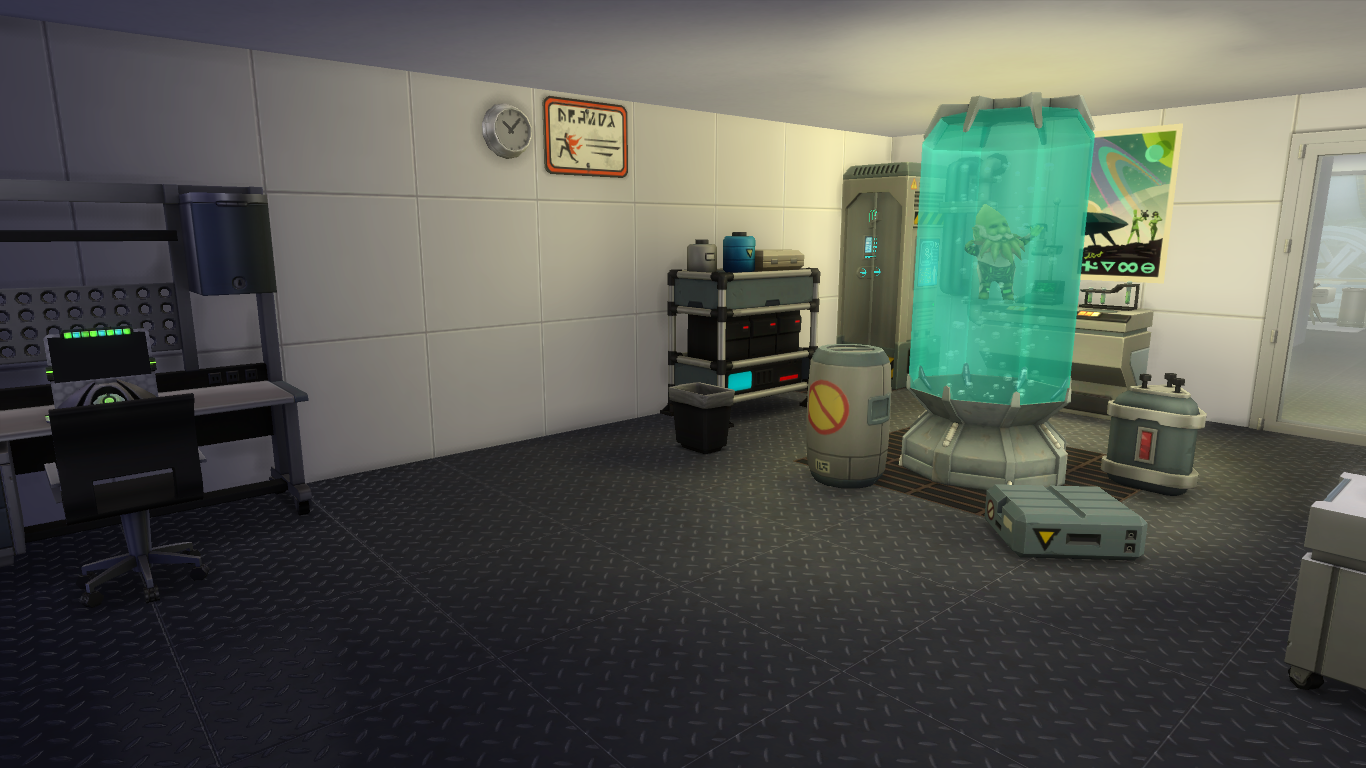
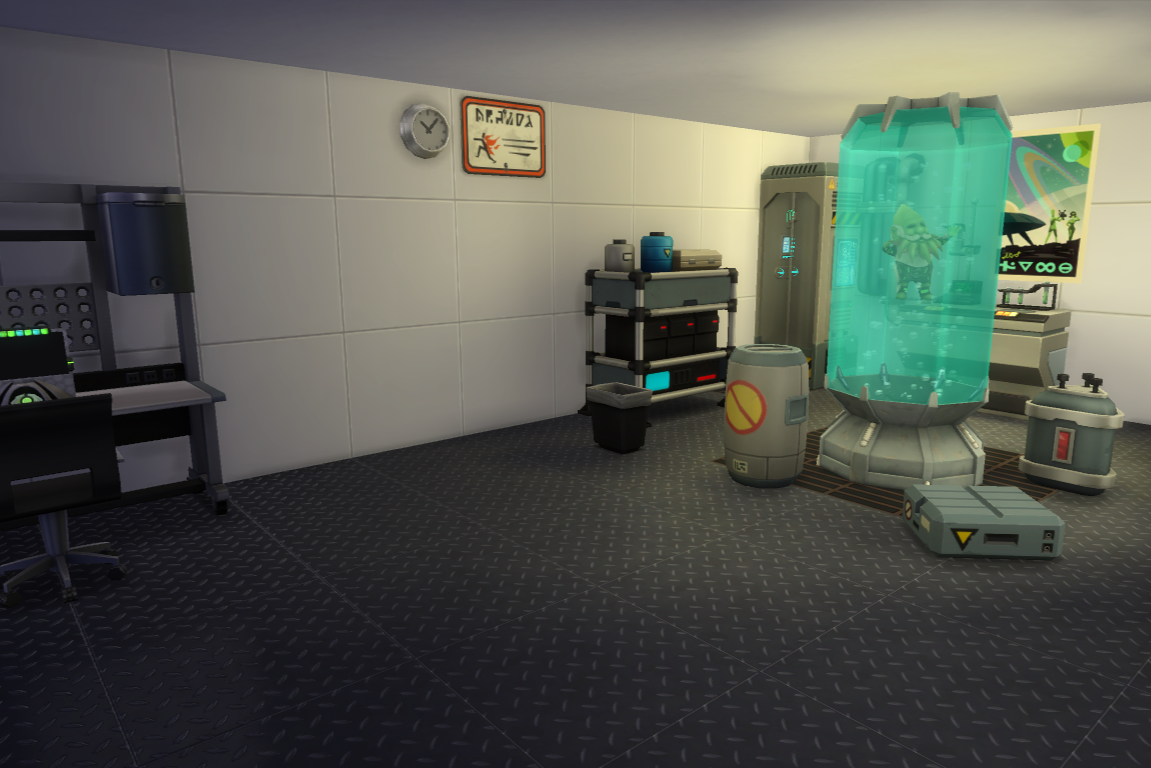
fbnrbljre njkb rk b      bs systems

diff --git a/src/java/principal/Capitulos.java b/src/java/principal/Capitulos.java
@@ -23,38 +23,38 @@ public class Capitulos {
                 //caminho A:
                 switch ((int) numParagrafo) {
                     case 97:
-                        paragrafo = "background('imagens/cenarios/02.png')Seguindo um corredor do Centro de Pesquisa, os especialistas se deparam com várias salas. A cada novo espaço o medo e a curiosidade duelavam no domínio sobre suas ações. Por fim, resolveram desbravar o local para buscarem uma ajuda. Eles seguiam juntos pelo corredor, em busca de manter alguma proteção sobre o grupo, em uma prevenção a qualquer coisa que pudesse ter acontecido naquele lugar.";
+                        paragrafo = "background('imagens/cenarios/05.png')Seguindo um corredor do Centro de Pesquisa, os especialistas se deparam com várias salas. A cada novo espaço o medo e a curiosidade duelavam no domínio sobre suas ações. Por fim, resolveram desbravar o local para buscarem uma ajuda. Eles seguiam juntos pelo corredor, em busca de manter alguma proteção sobre o grupo, em uma prevenção a qualquer coisa que pudesse ter acontecido naquele lugar.";
                         break;
                     case 98:
-                        paragrafo = "background('imagens/cenarios/02.png')Após algum tempo passando por várias salas de pesquisa bagunçadas, finalmente o grupo se depara com alguns computadores. Um sentimento de esperança crescia sob o peito de alguns, outros tentaram suprimir até que conseguissem ajuda para sair dali. Logo Jack sai na frente e começa a mexer em um dos computadores que ainda estava inteiro.";
+                        paragrafo = "background('imagens/cenarios/04.png')Após algum tempo passando por várias salas de pesquisa bagunçadas, finalmente o grupo se depara com alguns computadores. Um sentimento de esperança crescia sob o peito de alguns, outros tentaram suprimir até que conseguissem ajuda para sair dali. Logo Jack sai na frente e começa a mexer em um dos computadores que ainda estava inteiro.";
                         break;
                     case 99:
-                        paragrafo = "background('imagens/cenarios/02.png')Após alguns segundos teclando e olhando fixamente para a tela, o Professor solta um suspiro pesado e se volta aos outros.\n"
+                        paragrafo = "background('imagens/cenarios/04.png')Após alguns segundos teclando e olhando fixamente para a tela, o Professor solta um suspiro pesado e se volta aos outros.\n"
                                 + "-Sem acesso a Internet ou qualquer meio externo."
                                 + "Os cinco especialistas olham em desespero para Jack. Como sairiam dali? -E isso não é tudo. Deixaram um áudio aberto. Talvez possa ser algo importante…-Tenta uma falsa animação na voz.\n"
                                 + "-Vamos logo então!- Exasperada Abby solta.";
                         break;
                     case 100:
-                        paragrafo = "background('imagens/cenarios/02.png')Quando todos se põe ao redor do computador em um círculo, Jack libera a gravação aumentando o volume do áudio. \"Alerta! Alerta! (Sons agitados seguem o barulho constante de uma sirene. Algumas vozes conversam mas não é possível discernir o que falam.) -Não detonar as pontes de acesso! Não podemos danificar os SH! Um homem gritava com grande agitação na voz.";
+                        paragrafo = "background('imagens/cenarios/04.png')Quando todos se põe ao redor do computador em um círculo, Jack libera a gravação aumentando o volume do áudio. \"Alerta! Alerta! (Sons agitados seguem o barulho constante de uma sirene. Algumas vozes conversam mas não é possível discernir o que falam.) -Não detonar as pontes de acesso! Não podemos danificar os SH! Um homem gritava com grande agitação na voz.";
                         break;
                     case 101:
-                        paragrafo = "background('imagens/cenarios/02.png')Sons de digitação sobrepunham rapidamente a sirene e alguns resmungos que conversavam com o homem. - Já chegaram no portão da ala de segurança, estão ultrapassando! Um grande estrondo é ouvido ao fundo. -Droga!  - Alguma voz feminina libera furiosa.\n"
+                        paragrafo = "background('imagens/cenarios/04.png')Sons de digitação sobrepunham rapidamente a sirene e alguns resmungos que conversavam com o homem. - Já chegaram no portão da ala de segurança, estão ultrapassando! Um grande estrondo é ouvido ao fundo. -Droga!  - Alguma voz feminina libera furiosa.\n"
                                 + "-Sofremos uma falha na segurança! - Um homem ressoa na gravação, seguindo os vários barulhos ao fundo. -Podem utilizar o gás!-Um grande barulho de vidro corta o ambiente.";
                         break;
                     case 102:
-                        paragrafo = "background('imagens/cenarios/02.png')- Agora! - A voz continua a ditar ordens.- Senhor, precisamos fechar a porta manualmente. A senha é IA379936, temos que fech…. - A voz do homem é cortada por ruídos extremamente altos, levando os especialistas a acreditarem que se davam no mesmo ambiente da gravação. \n"
+                        paragrafo = "background('imagens/cenarios/04.png')- Agora! - A voz continua a ditar ordens.- Senhor, precisamos fechar a porta manualmente. A senha é IA379936, temos que fech…. - A voz do homem é cortada por ruídos extremamente altos, levando os especialistas a acreditarem que se davam no mesmo ambiente da gravação. \n"
                                 + "Um silêncio se apodera do áudio por alguns segundos, quando logo depois uma respiração ofegante e passos pesados correndo.";
                         break;
                     case 103:
-                        paragrafo = "background('imagens/cenarios/02.png')Um baque. Os especialistas se assustam. E novamente reina o silêncio no áudio tão estranho que acabaram de ouvir.\n"
+                        paragrafo = "background('imagens/cenarios/04.png')Um baque. Os especialistas se assustam. E novamente reina o silêncio no áudio tão estranho que acabaram de ouvir.\n"
                                 + "Eles se entreolhavam, cada um com a mente em um turbilhão de ideias e teorias, mas uma grande lacuna a ser preenchida. O que era tudo aquilo? Quem seriam os SH? O que estava acontecendo naquele lugar?";
                         break;
                     case 104:
-                        paragrafo = "background('imagens/cenarios/02.png')Por fim, a única dúvida no rosto de todos era :  sobreviveremos?\n"
+                        paragrafo = "background('imagens/cenarios/04.png')Por fim, a única dúvida no rosto de todos era :  sobreviveremos?\n"
                                 + "- Acho melhor anotarmos aquela senha, talvez precisaremos. - Diz Samy pensativa olhando para o computador a sua frente.";
                         break;
                     case 105:
-                        paragrafo = "background('imagens/cenarios/02.png')opcao=Ignorar a discussão e continuar procurando por pistas/Todo mundo quieto!";
+                        paragrafo = "background('imagens/cenarios/04.png')opcao=Ignorar a discussão e continuar procurando por pistas/Todo mundo quieto!";
                         break;
                     default:
                         paragrafo = "nulo";
@@ -168,7 +168,7 @@ public class Capitulos {
                 //caminho C:
                 switch ((int) numParagrafo) {
                     case 97:
-                        paragrafo = "background('imagens/cenarios/02.png')Os especialistas olharam uns para os outros. Claramente existiam várias opções que poderiam tomar ali, mas naquele momento eles permaneceram imersos nas vozes que acabaram de ouvir. \n"
+                        paragrafo = "background('imagens/cenarios/05.png')Os especialistas olharam uns para os outros. Claramente existiam várias opções que poderiam tomar ali, mas naquele momento eles permaneceram imersos nas vozes que acabaram de ouvir. \n"
                                 + "Jack logo saiu de sua imersão e começou a vasculhar o local. Ao perceber a movimentação de Jack, Jules resolveu lhe seguir.";
                         break;
                     case 98:
@@ -182,7 +182,7 @@ public class Capitulos {
                                 + "-Acho uma boa ideia, mas podíamos passar por esta ilha aqui, este deve ser o centro de segurança, podem haver coisas lá das quais precisaremos….";
                         break;
                     case 100:
-                        paragrafo = "background('imagens/cenarios/02.png')- Todos olham para Joshua com uma interrogação em suas faces. -Armas! Não sabemos com o que estamos lidando, armas são sempre bem vindas quando se tem uma recepção como aquela que passamos.\n"
+                        paragrafo = "background('imagens/cenarios/05.png')- Todos olham para Joshua com uma interrogação em suas faces. -Armas! Não sabemos com o que estamos lidando, armas são sempre bem vindas quando se tem uma recepção como aquela que passamos.\n"
                                 + "Em um unânime assentir, tomam o mapa e se preparam para seguir ao centro de segurança. Porém, antes de partirem, o grupo ouve sons vindo da entrada do centro de pesquisa.";
                         break;
                     case 101:
@@ -361,63 +361,63 @@ public class Capitulos {
             default:
                 switch ((int) numParagrafo) {
                     case 97:
-                        paragrafo = "background('imagens/cenarios/cpDown.png')-- Project: Human Evolution --";
+                        paragrafo = "background('imagens/cenarios/00.png')-- Project: Human Evolution --";
                         break;
                     case 98:
                         paragrafo = "background('imagens/cenarios/01.png')O helicóptero com 6 especialistas sobrevoa um território inóspito russo. O voo, totalmente fora de radares, segue pelo denso mar, quase que completamente congelado de Okhotsk. Aparentemente, todos naquele helicóptero faziam parte da pequena porcentagem de seres vivos, naquele ambiente extremo, o que não parecia os assustar.";
                         break;
                     case 99:
-                        paragrafo = "background('imagens/cenarios/02.png')Aqueles eram os seis especialistas convidados para participarem de um experimento em uma ilha em algum ponto daquele mar de águas estranhas, o que de suma já era um ponto de desconfiança, visto as grandes dificuldades climáticas que viram até ali.";
+                        paragrafo = "background('imagens/cenarios/10.png')Aqueles eram os seis especialistas convidados para participarem de um experimento em uma ilha em algum ponto daquele mar de águas estranhas, o que de suma já era um ponto de desconfiança, visto as grandes dificuldades climáticas que viram até ali.";
                         break;
                     case 100:
-                        paragrafo = "background('imagens/cenarios/03.png')Os especialistas mantinham uma conversa um tanto tímida, discutindo sobre as últimas novidades do projeto genoma X, depois de tentarem obter quaisquer informações adicionais sobre o experimento que participariam, porém, ao que parecia, todos sabiam exatamente nada. Porém, logo ouviram a voz do piloto:";
+                        paragrafo = "background('imagens/cenarios/14.png')Os especialistas mantinham uma conversa um tanto tímida, discutindo sobre as últimas novidades do projeto genoma X, depois de tentarem obter quaisquer informações adicionais sobre o experimento que participariam, porém, ao que parecia, todos sabiam exatamente nada. Porém, logo ouviram a voz do piloto:";
                         break;
                     case 101:
-                        paragrafo = "background('imagens/cenarios/03.png')\"Por favor doutores, permaneçam encostados nos assentos e com a cabeça entre os joelhos. Daqui poucos minutos passaremos por um campo magnético de retenção, que poderá causar alguma turbulência. Fiquem atentos a possíveis sangramentos nasais. Seguindo todos os procedimentos logo estaremos pousando!";
+                        paragrafo = "background('imagens/cenarios/14.png')\"Por favor doutores, permaneçam encostados nos assentos e com a cabeça entre os joelhos. Daqui poucos minutos passaremos por um campo magnético de retenção, que poderá causar alguma turbulência. Fiquem atentos a possíveis sangramentos nasais. Seguindo todos os procedimentos logo estaremos pousando!";
                         break;
                     case 102:
-                        paragrafo = "background('imagens/cenarios/03.png')Todos logo seguiram as ordens do piloto, curiosos acerca do tal campo de retenção mencionado. Após uma leve turbulência, o helicóptero logo pousou sobre uma área destinada a ele na ilha. Ao descerem e todos tomarem suas bagagens, rapidamente o helicóptero os deixa.";
+                        paragrafo = "background('imagens/cenarios/12.png')Todos logo seguiram as ordens do piloto, curiosos acerca do tal campo de retenção mencionado. Após uma leve turbulência, o helicóptero logo pousou sobre uma área destinada a ele na ilha. Ao descerem e todos tomarem suas bagagens, rapidamente o helicóptero os deixa.";
                         break;
                     case 103:
-                        paragrafo = "background('imagens/cenarios/03.png')-Bem, alguém sabe se vamos ser recepcionados pelo coordenador? - Pergunta Joshua.\n"
+                        paragrafo = "background('imagens/cenarios/13.png')-Bem, alguém sabe se vamos ser recepcionados pelo coordenador? - Pergunta Joshua.\n"
                                 + "-Acho melhor esperarmos aqui. Alguém deve estar vindo nos receber. -Se pronuncia Dra. Abby, ajeitando sua franja castanha sob a testa.";
                         break;
                     case 104:
-                        paragrafo = "background('imagens/cenarios/03.png')-Concordo. Enquanto isso, se não se importam, vou fazer fotos para o portfólio. Olhem como o campo magnético consegue armazenar o clima artificial sem nenhuma evidência externa! Fascinante! Realmente muito curioso! - O homem ruivo pega sua câmera pendurada sobre o pescoço, se afastando do grupo enquanto resmungava ainda mais fascinado sobre o campo magnético.";
+                        paragrafo = "background('imagens/cenarios/13.png')-Concordo. Enquanto isso, se não se importam, vou fazer fotos para o portfólio. Olhem como o campo magnético consegue armazenar o clima artificial sem nenhuma evidência externa! Fascinante! Realmente muito curioso! - O homem ruivo pega sua câmera pendurada sobre o pescoço, se afastando do grupo enquanto resmungava ainda mais fascinado sobre o campo magnético.";
                         break;
                     case 105:
-                        paragrafo = "background('imagens/cenarios/03.png')-Quem é aquele ali mesmo? Não me recordo dele falando qualquer palavra antes....- Pergunta um homem sentado sob sua mala. Seus olhos pequenos quase deixando uma aparência infantil, não fossem suas roupas desgastadas e o cabelo raspado.";
+                        paragrafo = "background('imagens/cenarios/00.png')-Quem é aquele ali mesmo? Não me recordo dele falando qualquer palavra antes....- Pergunta um homem sentado sob sua mala. Seus olhos pequenos quase deixando uma aparência infantil, não fossem suas roupas desgastadas e o cabelo raspado.";
                         break;
                     case 106:
-                        paragrafo = "background('imagens/cenarios/03.png')-Acredito que aquele seja o Professor Jack, doutor Michael. Ouvi dizer que ele é um verdadeiro gênio da genética, apenas acredito que tenha um medo de altura e por isso permaneceu quieto no helicóptero. - Termina risonha a jovem Jules, realçando sua covinha assimétrica na bochecha e balançando seus cabelos pretos repicados.";
+                        paragrafo = "background('imagens/cenarios/00.png')-Acredito que aquele seja o Professor Jack, doutor Michael. Ouvi dizer que ele é um verdadeiro gênio da genética, apenas acredito que tenha um medo de altura e por isso permaneceu quieto no helicóptero. - Termina risonha a jovem Jules, realçando sua covinha assimétrica na bochecha e balançando seus cabelos pretos repicados.";
                         break;
                     case 107:
                         paragrafo = "background('imagens/cenarios/01.png')Após algumas horas de espera, os especialistas cansados resolvem seguir caminho para o centro de pesquisa, acreditando que o coordenador deveria tê-los esquecido.\n"
                                 + "-Isso tudo é tão estranho! Nunca vi um lugar tão quieto. -Resmunga a loira chamada Samy. Alguns assentem, mas ninguém toma coragem em falar mais nada.";
                         break;
                     case 108:
-                        paragrafo = "background('imagens/cenarios/03.png')Logo que alcançam a porta do centro percebem a mesma quebrada. Ansiosos e temerosos decidem entrar rapidamente, mas logo que o fazem estancam em seus lugares.";
+                        paragrafo = "background('imagens/cenarios/02.png')Logo que alcançam a porta do centro percebem a mesma quebrada. Ansiosos e temerosos decidem entrar rapidamente, mas logo que o fazem estancam em seus lugares.";
                         break;
                     case 109:
-                        paragrafo = "background('imagens/cenarios/03.png')O cenário que veem é um completo caos. A recepção tem sua bancada parcialmente quebrada, com uma longa mancha de sangue seguindo em direção a uma poça negra atrás do balcão. De onde estão todos conseguem visualizar uma pálida mão repousando sobre a poça, sendo adornada por vários papéis já manchados ao seu redor.";
+                        paragrafo = "background('imagens/cenarios/02.png')O cenário que veem é um completo caos. A recepção tem sua bancada parcialmente quebrada, com uma longa mancha de sangue seguindo em direção a uma poça negra atrás do balcão. De onde estão todos conseguem visualizar uma pálida mão repousando sobre a poça, sendo adornada por vários papéis já manchados ao seu redor.";
                         break;
                     case 110:
-                        paragrafo = "background('imagens/cenarios/03.png')Com completo choque, cada um segue um caminho, não acreditando no que seus olhos presenciam. Podiam perceber que várias janelas estavam quebradas, uma boa parte detinha alguns tecidos pendurados nos vidros que ainda se mantinham firmes, outras com algumas manchas e respingos de sangue. ";
+                        paragrafo = "background('imagens/cenarios/02.png')Com completo choque, cada um segue um caminho, não acreditando no que seus olhos presenciam. Podiam perceber que várias janelas estavam quebradas, uma boa parte detinha alguns tecidos pendurados nos vidros que ainda se mantinham firmes, outras com algumas manchas e respingos de sangue. ";
                         break;
                     case 111:
-                        paragrafo = "background('imagens/cenarios/03.png')Em um dos cantos, era possível ver o que antes deveria ser um mapa da ilha que estavam. Agora, não passava de vários recortes pendurados em uma moldura na parede.\n"
+                        paragrafo = "background('imagens/cenarios/02.png')Em um dos cantos, era possível ver o que antes deveria ser um mapa da ilha que estavam. Agora, não passava de vários recortes pendurados em uma moldura na parede.\n"
                                 + "-O que aconteceu aqui? - Sussurrou Jules. Apesar do tom baixo, todos puderam ouvi-la claramente, bem como as respirações aceleradas pelo choque.  Se abaixando lentamente Jules toca em um dos corpos jogados no chão, vendo o quão gelado já se encontra.";
                         break;
                     case 112:
-                        paragrafo = "background('imagens/cenarios/03.png')-Acho que encontrei algo!\n"
+                        paragrafo = "background('imagens/cenarios/02.png')-Acho que encontrei algo!\n"
                                 + "Naquele instante o coração de cada um naquela sala errou uma batida, uns pela esperança de uma resposta, outros pelo medo ou ansiedade. Rapidamente todos viram seus olhos em direção ao estranho Professor Jack, se aproximando dele lentamente. ";
                         break;
                     case 113:
-                        paragrafo = "background('imagens/cenarios/03.png')Em seu campo de visão se encontrava um grande monitor, piscando em letras vermelhas o grande perigo que aqueles cientistas estavam prestes a conhecer.\n"
+                        paragrafo = "background('imagens/cenarios/02.png')Em seu campo de visão se encontrava um grande monitor, piscando em letras vermelhas o grande perigo que aqueles cientistas estavam prestes a conhecer.\n"
                                 + "\"Alerta Máximo: Segurança da IA Comprometida!!\"";
                         break;
                     case 114:
-                        paragrafo = "background('imagens/cenarios/04.png')opcao=Procurar meio de comunicação com o continente/Trancar algumas alas do centro para manter certa segurança";
+                        paragrafo = "background('imagens/cenarios/02.png')opcao=Procurar meio de comunicação com o continente/Trancar algumas alas do centro para manter certa segurança";
                         break;
                     default:
                         paragrafo = "nulo";
@@ -559,6 +559,21 @@ public class Capitulos {
                         break;
                     case 99:
                         atualizaCaminhoFrente('d', 3);
+                        break;
+                    case 100:
+                        atualizaCaminhoFrente('e', 3);
+                        break;
+                    case 101:
+                        atualizaCaminhoFrente('f', 3);
+                        break;
+                    case 102:
+                        atualizaCaminhoFrente('g', 3);
+                        break;
+                    case 103:
+                        atualizaCaminhoFrente('h', 3);
+                        break;
+                    case 104:
+                        atualizaCaminhoFrente('i', 3);
                         break;
                 }
                 break;

diff --git a/src/java/dao/UsuarioDao.java b/src/java/dao/UsuarioDao.java
@@ -15,7 +15,7 @@ public class UsuarioDao {
     
     private static PreparedStatement retornaConexao(String sql) {
         //retorna a conexão com o BD
-        String str = "jdbc:mysql://localhost:3306/phe?" + "user=root&password=root";
+        String str = "jdbc:mysql://localhost:3306/phe?" + "user=root&password=alunoifc";
         PreparedStatement p;
         try {
             DriverManager.registerDriver(new com.mysql.jdbc.Driver());
